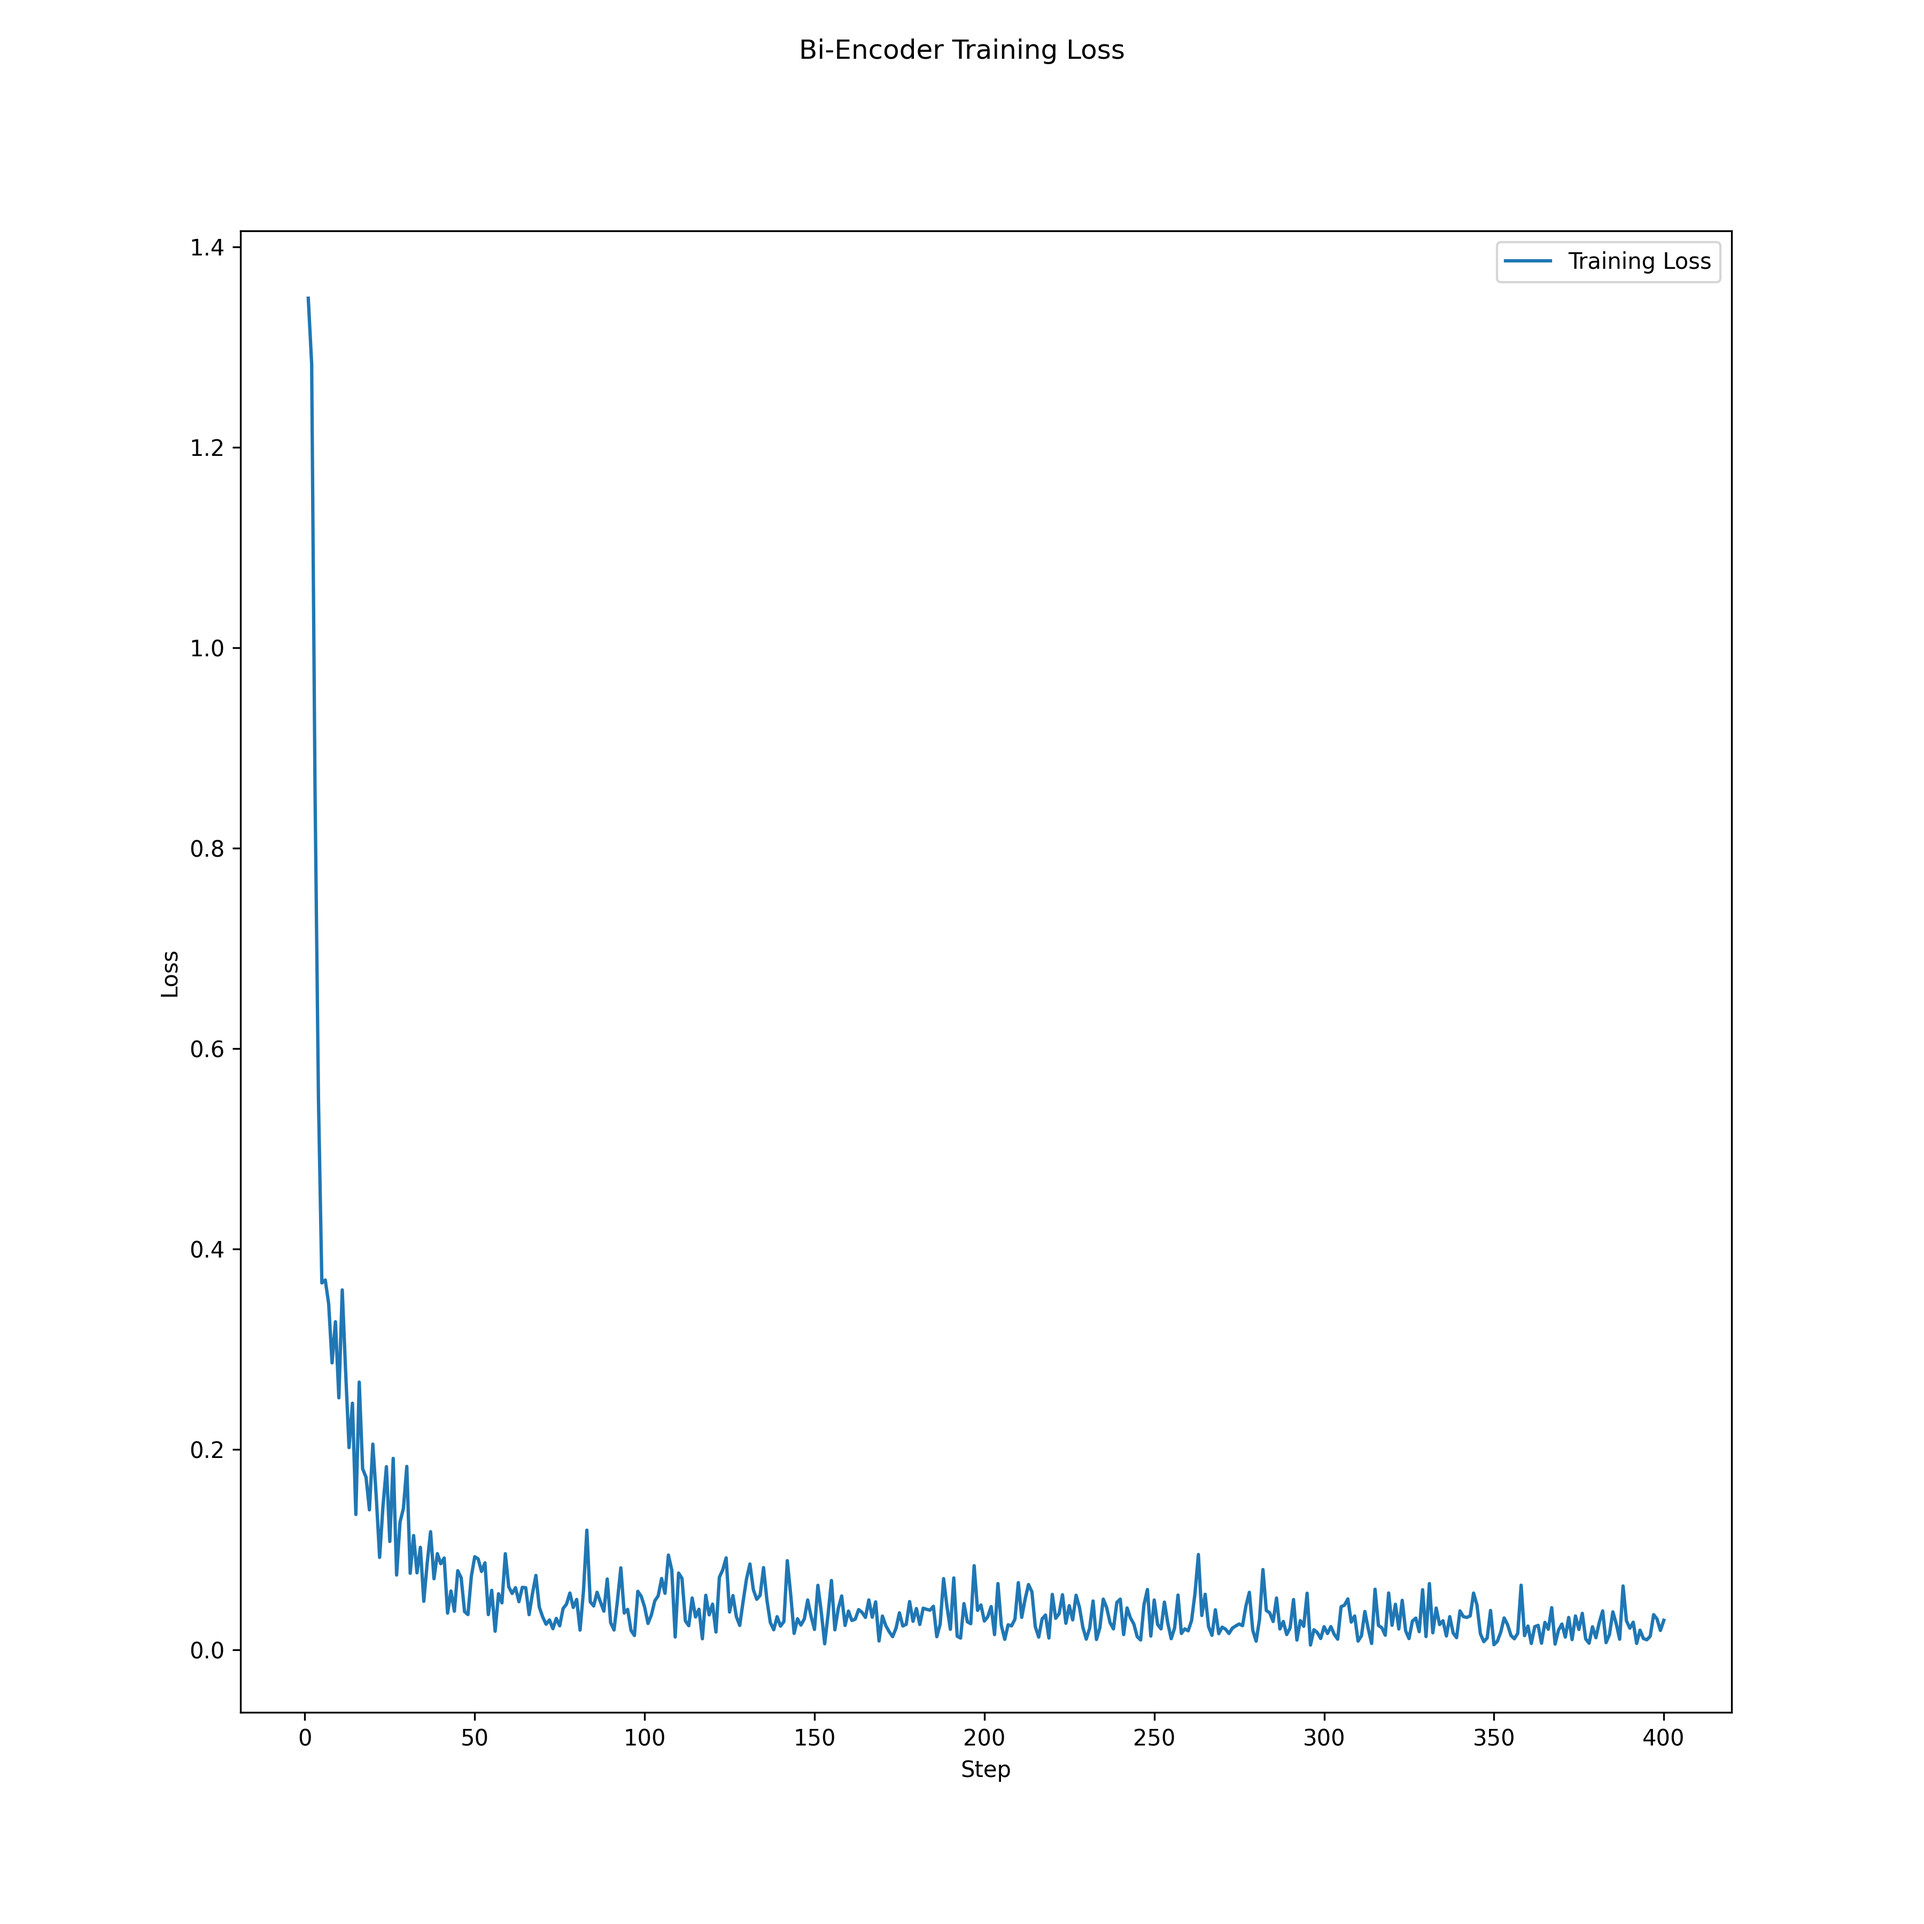
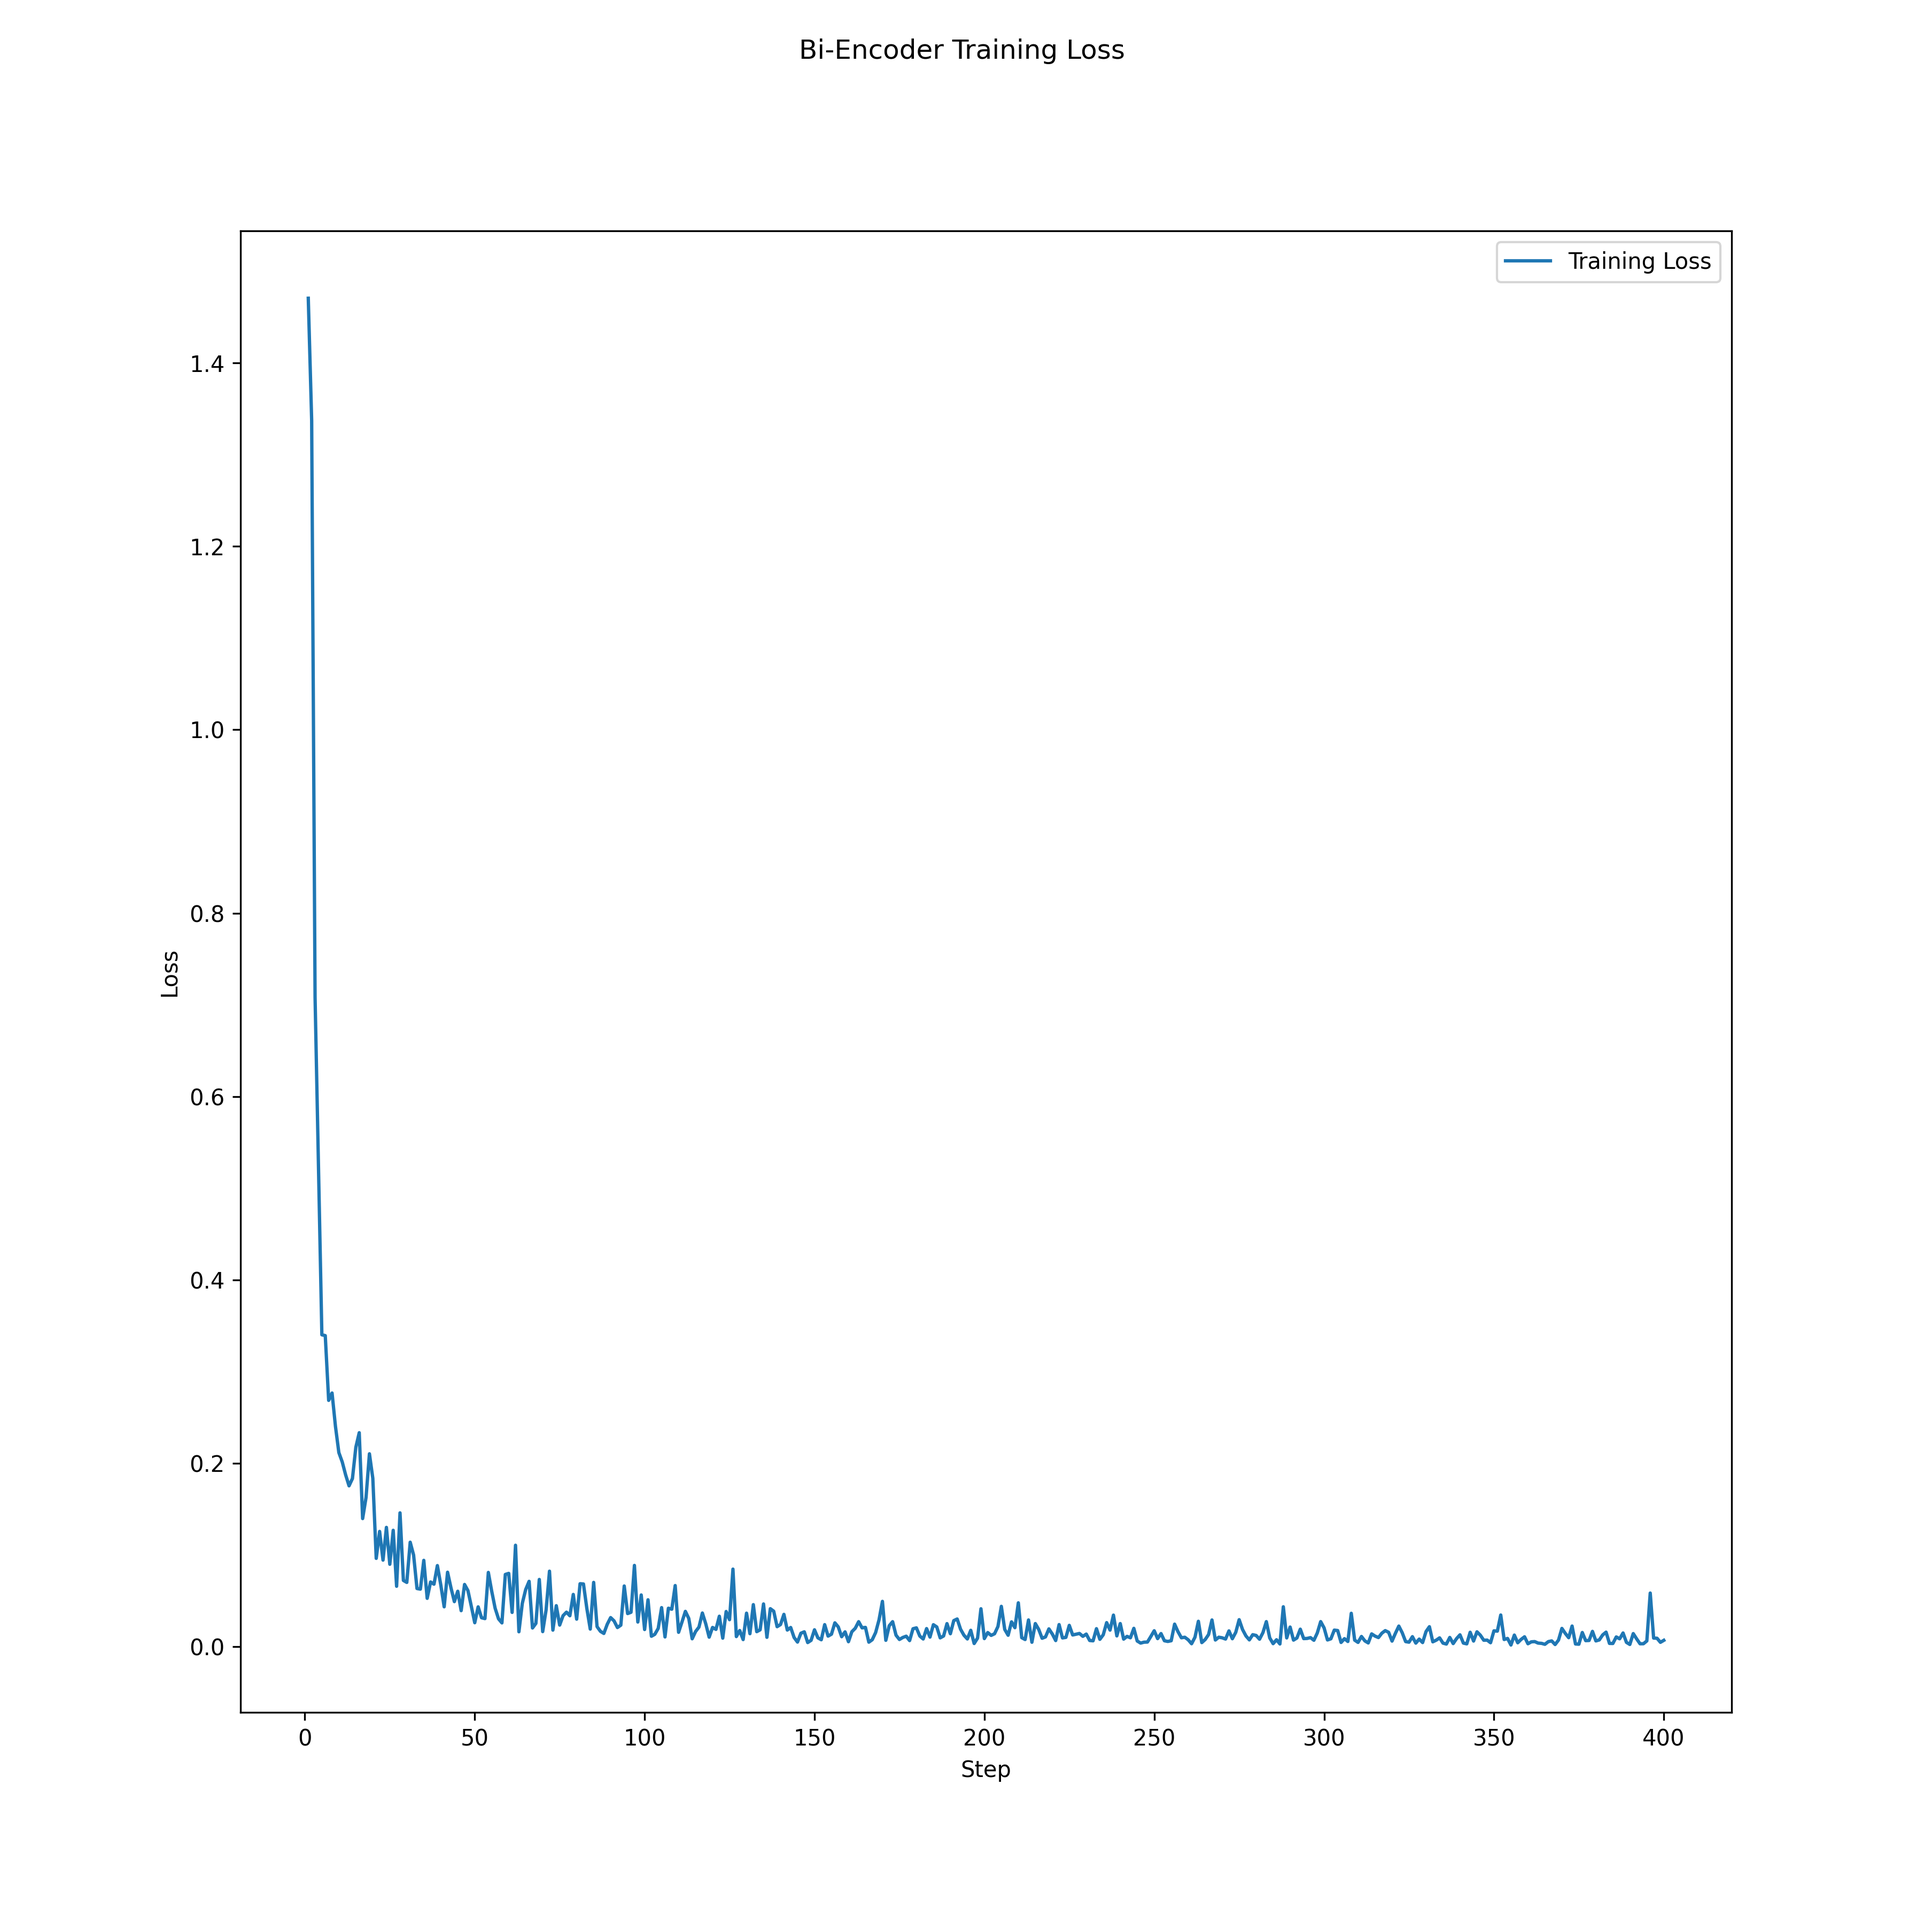
New Syn Query Scripts

Changed region(s): [[0.1556, 0.6533, 0.8711, 0.8711], [0.0933, 0.7467, 0.1244, 0.7778]]

diff --git a/retreiver_training/training.py b/retreiver_training/training.py
@@ -17,9 +17,10 @@ import torch.nn.functional as F
 from dotenv import load_dotenv
 from huggingface_hub import login
 from torch.cuda.amp import autocast, GradScaler
-from packages.marco_dataloader import MSMARCO
 from beir.datasets.data_loader import GenericDataLoader
 from transformers import AutoTokenizer, AutoModel
+sys.path.append('/mnt/hpc/work/mbouthil/MMATH-CM-Research-Project')
+from packages.marco_dataloader import MSMARCO
 
 
 ##########
@@ -29,24 +30,26 @@ tau=0.03
 learning_rate=2e-5
 steps=400
 plot_loss=True
-ibn=1
+ibn=0
 K=20_000
 J=100_000
 N=502939 # length of original queries
 
 ### Dataset ###
-data_dir = "/work/mbouthil/datasets/msmarco_neg_p_100k"
+dataset_dir = "/work/mbouthil/datasets/msmarco_syn_q_v2.2"
 
 ### Model Name ###
-model_name = "r400s_sqa"
+model_name = "r400s_sq2.2"
 ##########
 
 
-passages, queries, qrels = GenericDataLoader(data_folder=data_dir).load(split="train")
+passages, queries, qrels = GenericDataLoader(data_folder=dataset_dir).load(split="train")
+
 device = "cuda" if torch.cuda.is_available() else "cpu"
-queries = {**dict(list(queries.items())[:K]),
-            **dict(random.sample(list(queries.items())[N:], J))}
-# queries= dict(list(queries.items())[:K])
+# queries = {**dict(list(queries.items())[:K]),
+#             **dict(random.sample(list(queries.items())[N:], J))}
+queries= dict(list(queries.items())[:K])
+
 data = MSMARCO(queries, 
                qrels, 
                passages, batch_negatives=ibn)
@@ -174,7 +177,7 @@ if plot_loss==True:
 
 
 ### Saving Encoder Weights ###
-save_dir = "/work/mbouthil/MMATH-CM-Research-Project/RAG/model_weights"
+save_dir = "/work/mbouthil/MMATH-CM-Research-Project/retreiver_training/model_weights"
 model.query_encoder.save_pretrained(f"{save_dir}/query_encoder_{model_name}")
 model.passage_encoder.save_pretrained(f"{save_dir}/passage_encoder_{model_name}")
 
@@ -188,7 +191,7 @@ gc.collect()
 
 ### Paths and Directories ###
 corpus_path = "/work/mbouthil/datasets/msmarco/corpus.jsonl"
-output_dir = "/work/mbouthil/MMATH-CM-Research-Project/RAG/retrieval_data"
+output_dir = "/work/mbouthil/MMATH-CM-Research-Project/retreiver_training/retrieval_data"
 embeddings_path = f"{output_dir}/embeddings_{model_name}.npy"
 
 
@@ -209,7 +212,7 @@ def stream_msmarco_chunks(path, chunk_size=5000):
 ### Loading Passage Encoder ###
 tokenizer = AutoTokenizer.from_pretrained('bert-base-uncased')
 passage_encoder = AutoModel.from_pretrained(
-    f"/work/mbouthil/MMATH-CM-Research-Project/RAG/model_weights/passage_encoder_{model_name}"
+    f"/work/mbouthil/MMATH-CM-Research-Project/retreiver_training/model_weights/passage_encoder_{model_name}"
     ).to(device)
 passage_encoder.eval()
 

diff --git a/retreiver_training/evaluation.py b/retreiver_training/evaluation.py
@@ -2,29 +2,27 @@ import pandas as pd
 import torch
 import os
 import gc
-import math
 os.environ["HF_HUB_DISABLE_PROGREvSS_BARS"] = "1"
 from huggingface_hub import login
-from transformers import AutoTokenizer, AutoModelForCausalLM, logging, AutoModel
+from transformers import AutoTokenizer, logging, AutoModel
 logging.set_verbosity_error()
 import numpy as np
-from concurrent.futures import ThreadPoolExecutor
 from dotenv import load_dotenv
 import os
 from torch import Tensor
 import faiss 
-import json
 from beir.datasets.data_loader import GenericDataLoader
 import torch.nn.functional as F
 from beir.retrieval.evaluation import EvaluateRetrieval
 
 
-model_name = "r400s_sqa"
+model_name = "r400s_sq2"
+dir= "/work/mbouthil/MMATH-CM-Research-Project/retreiver_training/retrieval_data/"
 
 try:
-    index = faiss.read_index(f"/work/mbouthil/MMATH-CM-Research-Project/RAG/retrieval_data/{model_name}.index")
+    index = faiss.read_index(f"{dir}{model_name}.index")
 except:
-    embeddings_path = f"/work/mbouthil/MMATH-CM-Research-Project/RAG/retrieval_data/embeddings_{model_name}.npy"
+    embeddings_path = f"{dir}embeddings_{model_name}.npy"
     N = 8_841_823                     
     d = 768  
 
@@ -47,12 +45,12 @@ except:
         del chunk_emb
         gc.collect()
 
-    faiss.write_index(index, f"/work/mbouthil/MMATH-CM-Research-Project/RAG/retrieval_data/{model_name}.index")
+    faiss.write_index(index, f"{dir}{model_name}.index")
     del embeddings, index
     gc.collect
 
     # Loading Index
-    index = faiss.read_index(f"/work/mbouthil/MMATH-CM-Research-Project/RAG/retrieval_data/{model_name}.index")
+    index = faiss.read_index(f"{dir}{model_name}.index")
 
 
 ### Loading Eval Data ###
@@ -64,7 +62,7 @@ dev_info = [(key, value) for key, value in dev_queries.items()]
 device = "cuda" if torch.cuda.is_available() else "cpu"
 tokenizer = AutoTokenizer.from_pretrained("bert-base-uncased")
 query_encoder = AutoModel.from_pretrained(
-    f"/work/mbouthil/MMATH-CM-Research-Project/RAG/model_weights/query_encoder_{model_name}"
+    f"/work/mbouthil/MMATH-CM-Research-Project/retreiver_training/model_weights/query_encoder_{model_name}"
 ).to(device)
 query_encoder.eval()
 
@@ -149,4 +147,4 @@ scores = {
     "Recall@1000": recall['Recall@1000']}
 
 scores = pd.DataFrame(scores, index=[0])
-scores.to_csv(f"/work/mbouthil/MMATH-CM-Research-Project/RAG/results/{model_name}_results.csv", index=False)
+scores.to_csv(f"/work/mbouthil/MMATH-CM-Research-Project/results/{model_name}_results.csv", index=False)

diff --git a/synthetic_query_scripts/syn_q_v2.2.py b/synthetic_query_scripts/syn_q_v2.2.py
@@ -18,7 +18,7 @@ sys.path.append('/mnt/hpc/work/mbouthil/MMATH-CM-Research-Project')
 from packages.marco_dataloader import MSMARCO
 
 test=False
-save_name='syn_q_v2'
+save_name='syn_q_v2.2'
 
 ### Loading data ###
 data_dir = "/work/mbouthil/datasets/msmarco"
@@ -34,17 +34,9 @@ system_prompt = '''You are a subject matter expert in your field with substantia
 specific subject or topic, validated by academic degrees, certifications, and/or years of
 professional experience in that field.
 
-Write a question that elaborates on the provided passage(s). Ensure that your question is answered by the passage(s). 
+Write a question that is answered by the provided passage(s). Ensure that your question is concise and answered by the passage(s). 
 Provide only the question and format it as follows:**question**. 
-''' # Prompt method 1
-
-# system_prompt = '''You are a subject matter expert in your field with substantial accumulated knowledge in a
-# specific subject or topic, validated by academic degrees, certifications, and/or years of
-# professional experience in that field.
-
-# Write a question that is answered by the provided passage(s). Ensure that your question is concise and answered by the passage(s). 
-# Provide only the question and format it as follows:**question**. 
-# '''
+''' # Prompting Method 2
 
 # Loading LM
 from packages.llama import Llama_LM

diff --git a/synthetic_query_scripts/syn_q_agent_v2.py b/synthetic_query_scripts/syn_q_agent_v2.py
@@ -4,6 +4,7 @@ import random
 import torch
 import os
 import gc
+import sys
 import shutil
 import torch.nn as nn
 from tqdm import tqdm
@@ -13,9 +14,10 @@ import torch.nn.functional as F
 from dotenv import load_dotenv
 from huggingface_hub import login
 from torch.cuda.amp import autocast, GradScaler
-from packages.marco_dataloader import MSMARCO
 from beir.datasets.data_loader import GenericDataLoader
 from transformers import AutoTokenizer, AutoModel
+sys.path.append('/mnt/hpc/work/mbouthil/MMATH-CM-Research-Project')
+from packages.marco_dataloader import MSMARCO
 
 save_name='syn_q_agent_2'
 test=False
@@ -79,8 +81,8 @@ batches = batch_splits(qrels, batch_size=64)
 
 syn_dict=dict()
 new_qrels=dict()
+qrels=dict(qrels)
 counter=0
-
 
 for batch in batches:
     q_ids, p_data = zip(*batch)
@@ -134,8 +136,7 @@ for batch in batches:
 
     filtered = [(q_id, syn_query) for q_id, syn_query, verdict in zip(q_ids, syn_queries, verdicts) if verdict == 1]
 
-    for tuple in enumerate(filtered):
-        q_id, syn_query = tuple
+    for q_id, syn_query  in filtered:
         syn_dict[q_id] = syn_query
         new_qrels[q_id] = qrels[q_id]
 
